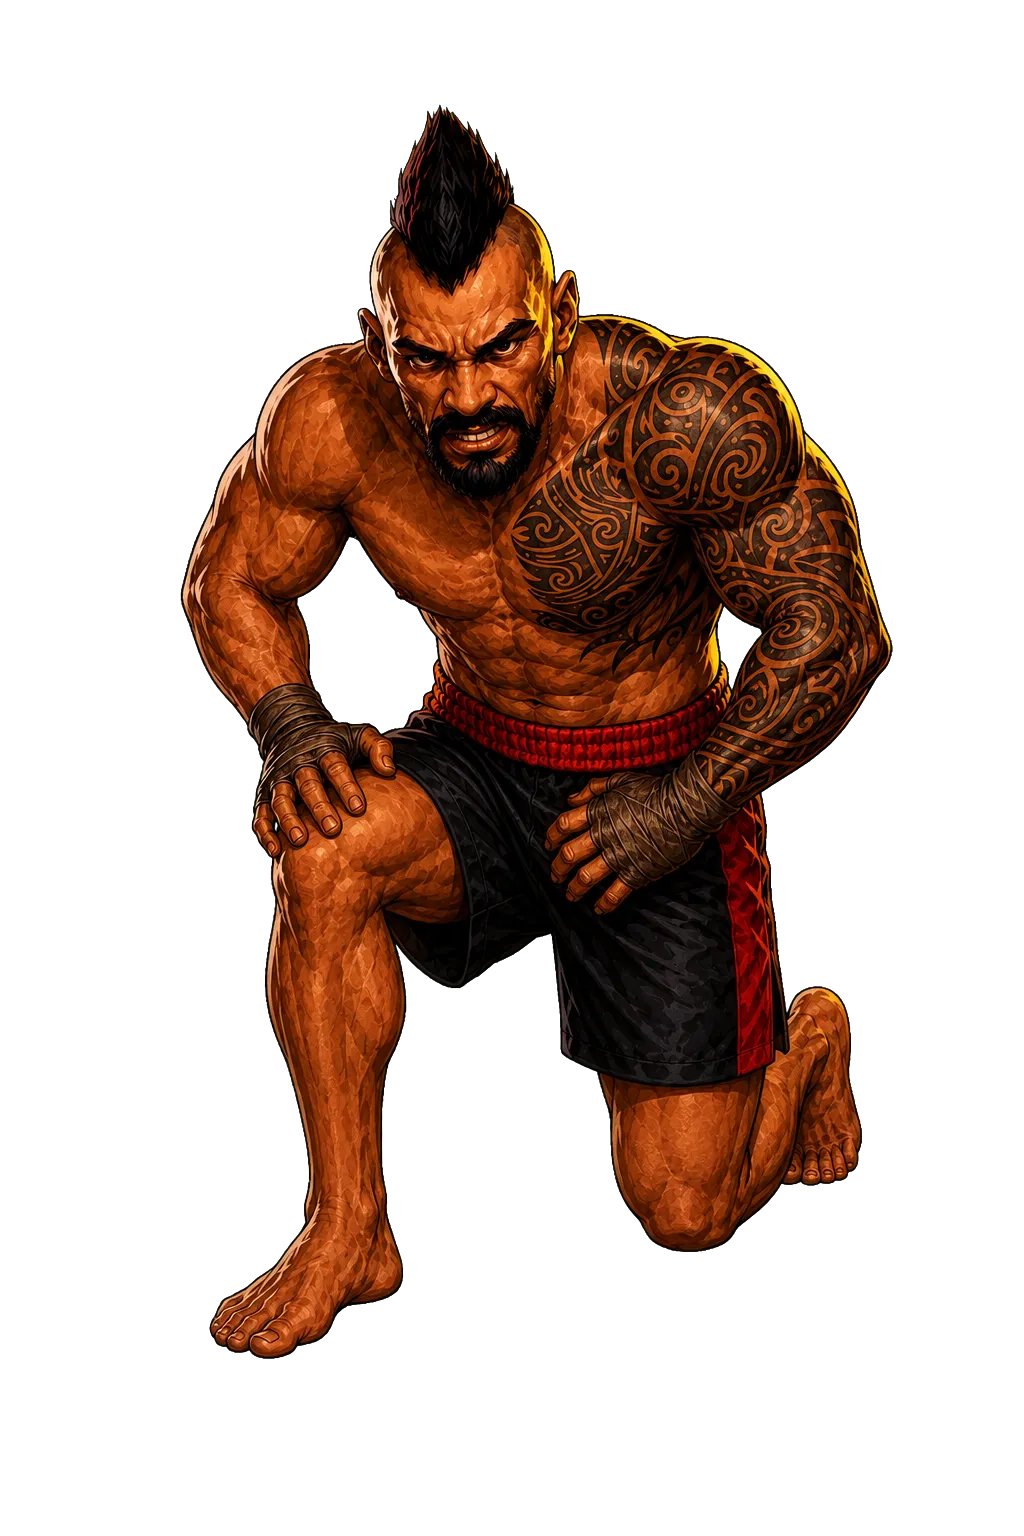
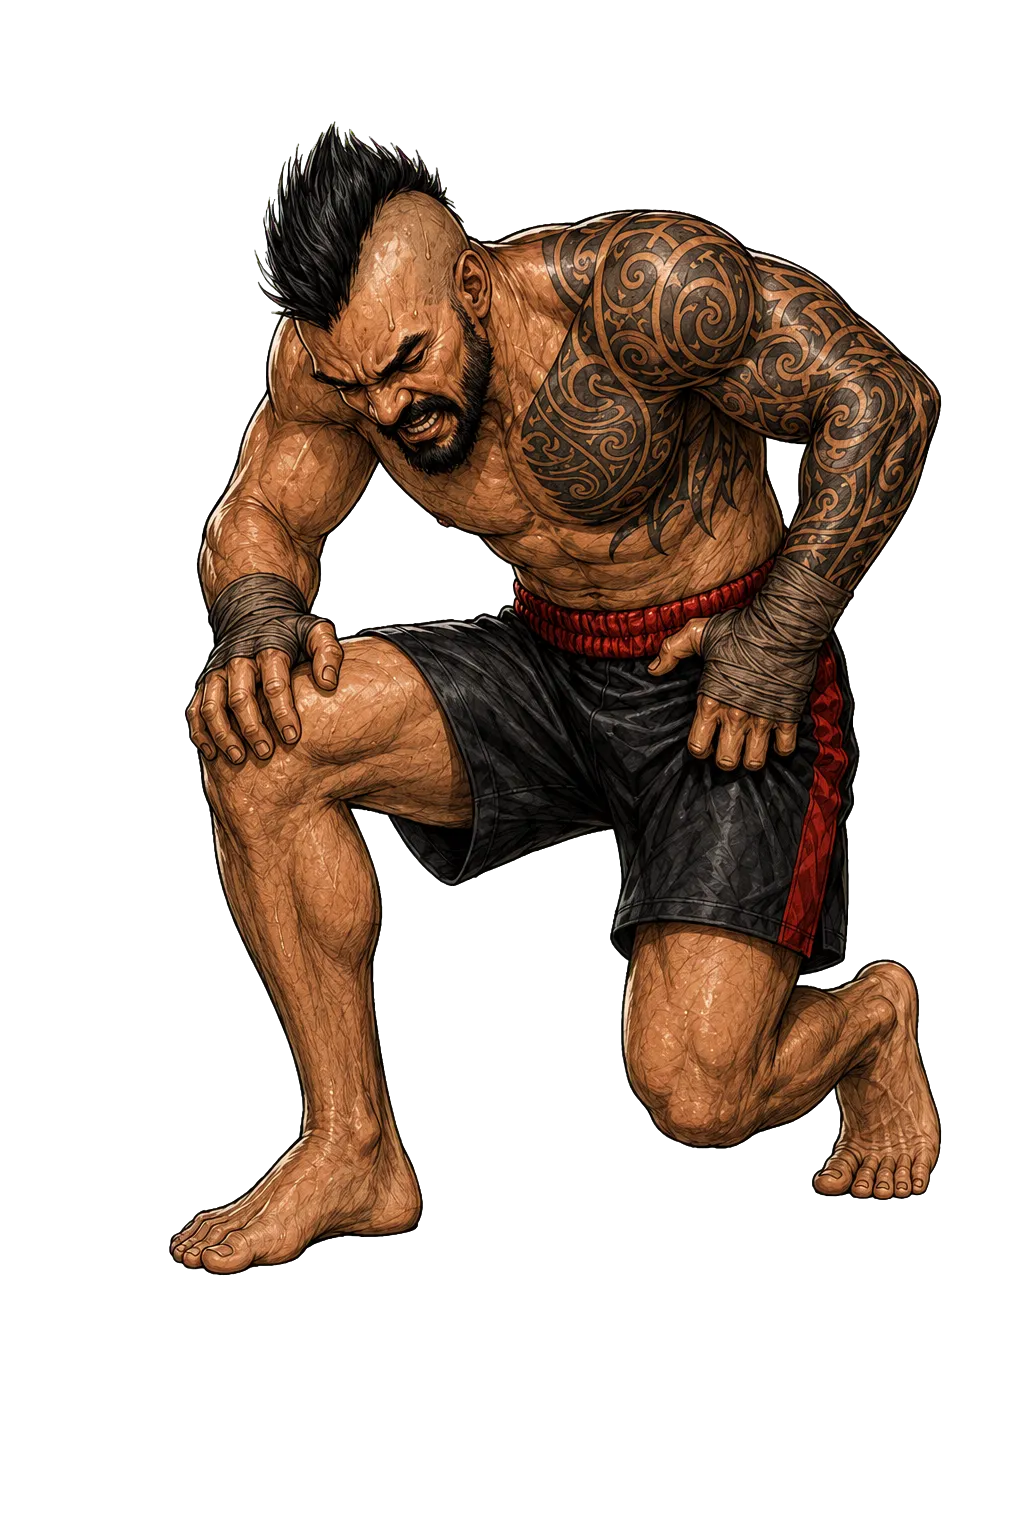
Add files via upload

diff --git a/src/Game.tsx b/src/Game.tsx
@@ -69,6 +69,7 @@ type KneeDepth = "near" | "far";
 
 const MAX_HEALTH = 100;
 const ROUND_TIME = 90;
+const GAME_VERSION = "0.39.0";
 const asset = (path: string) => `${import.meta.env.BASE_URL}${path.replace(/^\//, "")}`;
 
 const POSE_ASSETS = [
@@ -436,11 +437,10 @@ export default function Home() {
 
   useEffect(() => {
     if (matchState !== "countdown") return;
-    const actionId = playerActionRef.current;
     const two = window.setTimeout(() => setFightCountdown(2), 700);
     const one = window.setTimeout(() => setFightCountdown(1), 1400);
     const fight = window.setTimeout(() => {
-      if (matchRef.current !== "countdown" || playerActionRef.current !== actionId) return;
+      if (matchRef.current !== "countdown") return;
       matchRef.current = "fighting";
       setMatchState("fighting");
       setCallout("FIGHT!");
@@ -1525,6 +1525,7 @@ export default function Home() {
             <img className="intro-mohawk" src={asset("/opponent-guard.webp")} alt="The Mohawk waiting in the ring" draggable={false} />
             <div className="title-lockup">
               <img className="intro-logo" src={asset("/fighttime-logo.png")} alt="FightTime" draggable={false} />
+              <span className="intro-version">VERSION {GAME_VERSION}</span>
             </div>
             <div className="intro-versus-card">
               <div className="versus-row"><strong>YOU</strong><b>VS</b><strong>THE MOHAWK</strong></div>

diff --git a/src/styles.css b/src/styles.css
@@ -389,6 +389,7 @@ button { font: inherit; touch-action:manipulation; -webkit-user-select:none; use
 .intro-mohawk { position:absolute; z-index:2; right:-2%; bottom:-7%; width:58%; height:94%; object-fit:contain; object-position:center bottom; filter:drop-shadow(-18px 12px 22px #000) saturate(1.06) contrast(1.08); animation:introFighterBreathe 1.4s ease-in-out infinite alternate; }
 .intro-overlay .title-lockup { position:absolute; z-index:5; left:3%; top:13%; width:64%; transform:rotate(-2deg); }
 .intro-logo { display:block; width:100%; height:auto; filter:drop-shadow(10px 12px 0 #0009) drop-shadow(0 0 18px rgba(225,40,30,.24)); }
+.intro-version { display:inline-block; margin:.45rem 0 0 4%; padding:.32rem .58rem; color:#f4ead7; background:#090a09d9; border-left:3px solid var(--gold); box-shadow:4px 4px #0008; font:900 clamp(.52rem,.85vw,.82rem)/1 Arial,sans-serif; letter-spacing:.18em; text-shadow:1px 2px #000; }
 .intro-overlay .title-lockup p { position:relative; z-index:2; margin:0 0 .7rem .35rem; color:var(--gold); font:900 clamp(.52rem,.9vw,.9rem)/1 Arial,sans-serif; letter-spacing:.28em; }
 .intro-overlay .title-lockup h1 { margin:0; font-size:clamp(4rem,9.2vw,9rem); line-height:.68; letter-spacing:-.055em; color:#f1eadc; -webkit-text-stroke:2px #090a09; }
 .intro-overlay .title-lockup h1 > i { display:inline-block; font-style:normal; transform:translateY(-.14em); }
@@ -684,6 +685,7 @@ button { font: inherit; touch-action:manipulation; -webkit-user-select:none; use
   .intro-marquee { top:2.5%; width:88%; min-width:0; padding:.45rem .6rem; font-size:.48rem; letter-spacing:.16em; }
   .intro-mohawk { right:-30%; bottom:10%; width:150%; height:76%; opacity:.72; }
   .intro-overlay .title-lockup { left:3%; top:9%; width:94%; text-align:left; }
+  .intro-version { margin-top:.25rem; font-size:.48rem; }
   .intro-overlay .title-lockup h1 { font-size:19vw; }
   .intro-overlay .title-lockup p { font-size:.48rem; letter-spacing:.2em; }
   .intro-overlay .slash { margin-top:.65rem; }